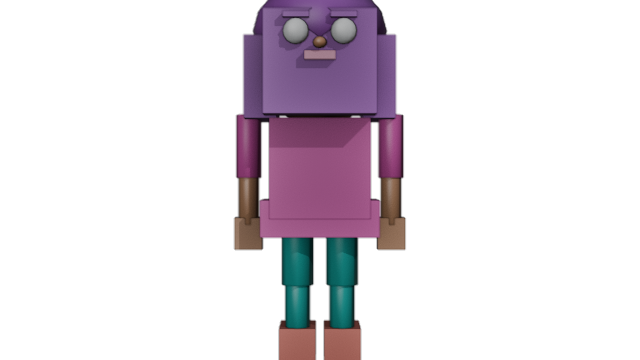
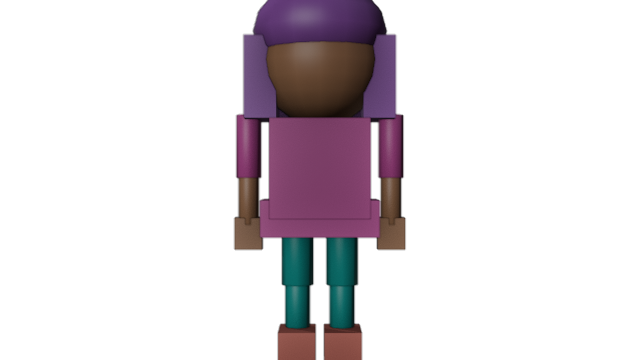
fix: stage-4.1 animation preview camera — use +Y position to show character fronts
Camera corrected from (0,-4,0.80) to (0,+4,0.80) so it looks toward -Y
and sees the +Y-facing front of both characters. All 5 previews re-rendered.
Idle vs walk pixel differences: Aarav 9.33%, Aanya 7.76% (both >5% threshold)

diff --git a/Local_3D_Cartoon_Studio/blender/scripts/render_animation_preview.py b/Local_3D_Cartoon_Studio/blender/scripts/render_animation_preview.py
@@ -276,8 +276,9 @@ def render_character_animation(blend_file, char_name, renders):
     scene = setup_scene()
     cam_obj = make_camera(scene)
 
-    # Front view camera — same as render_character_preview.py
-    set_camera(cam_obj, (0, -4.0, 0.80), (0, 0, 0.80))
+    # Front view camera — characters face +Y, so camera must be at +Y looking toward -Y
+    # This is the same direction as the garden scene cameras
+    set_camera(cam_obj, (0, 4.0, 0.80), (0, 0, 0.80))
 
     arm_name = f'{char_name}_Armature'
     arm_obj = bpy.data.objects.get(arm_name)
@@ -334,7 +335,7 @@ def render_both_characters(frame=1):
     cam_obj = bpy.data.objects.new('RenderCamBoth', cam_data)
     scene.collection.objects.link(cam_obj)
     scene.camera = cam_obj
-    set_camera(cam_obj, (0, -5.5, 0.80), (0, 0, 0.80))
+    set_camera(cam_obj, (0, 5.5, 0.80), (0, 0, 0.80))
 
     # Apply walk animation frame 1 to Aarav
     aarav_arm = bpy.data.objects.get('Aarav_Armature')
